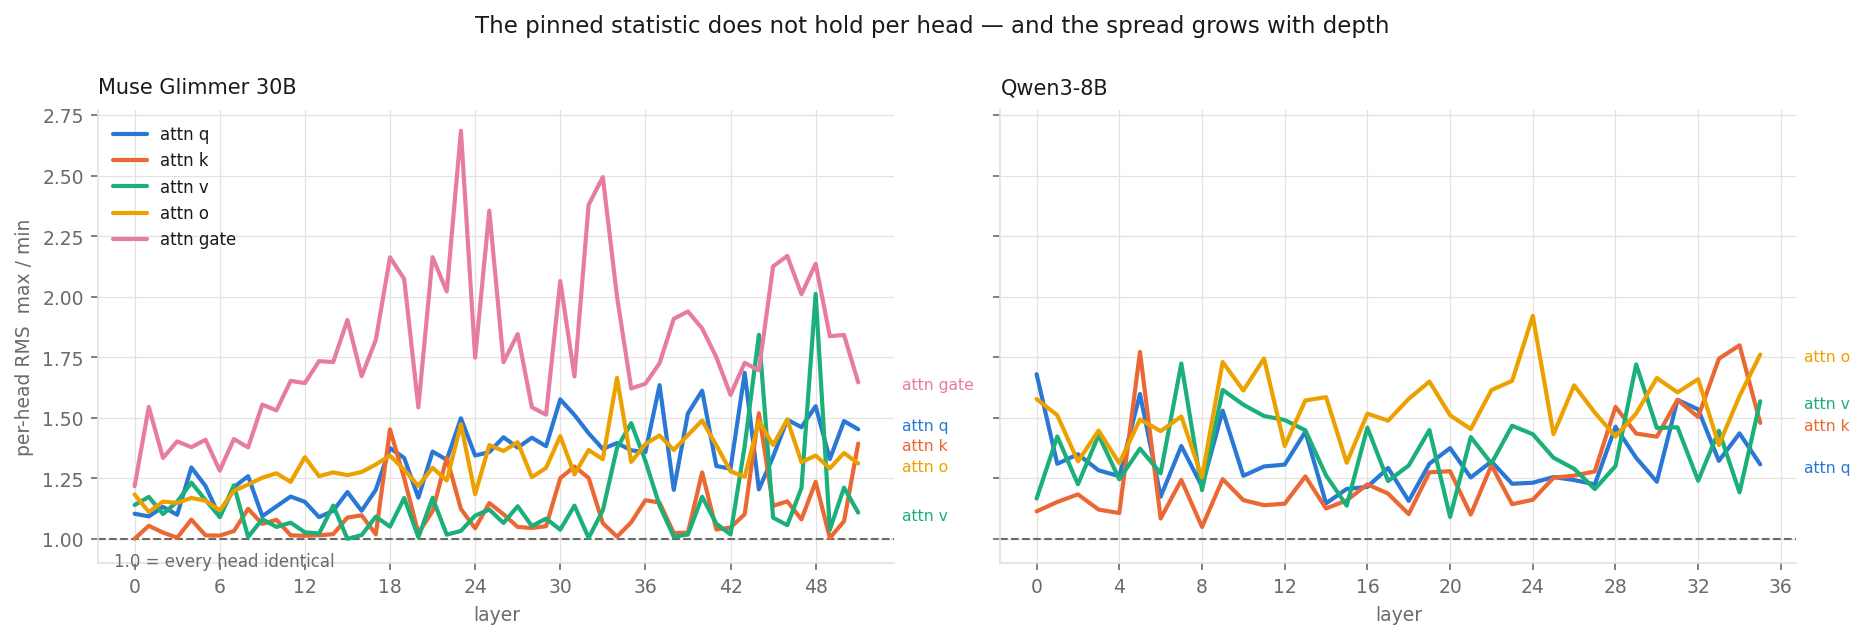
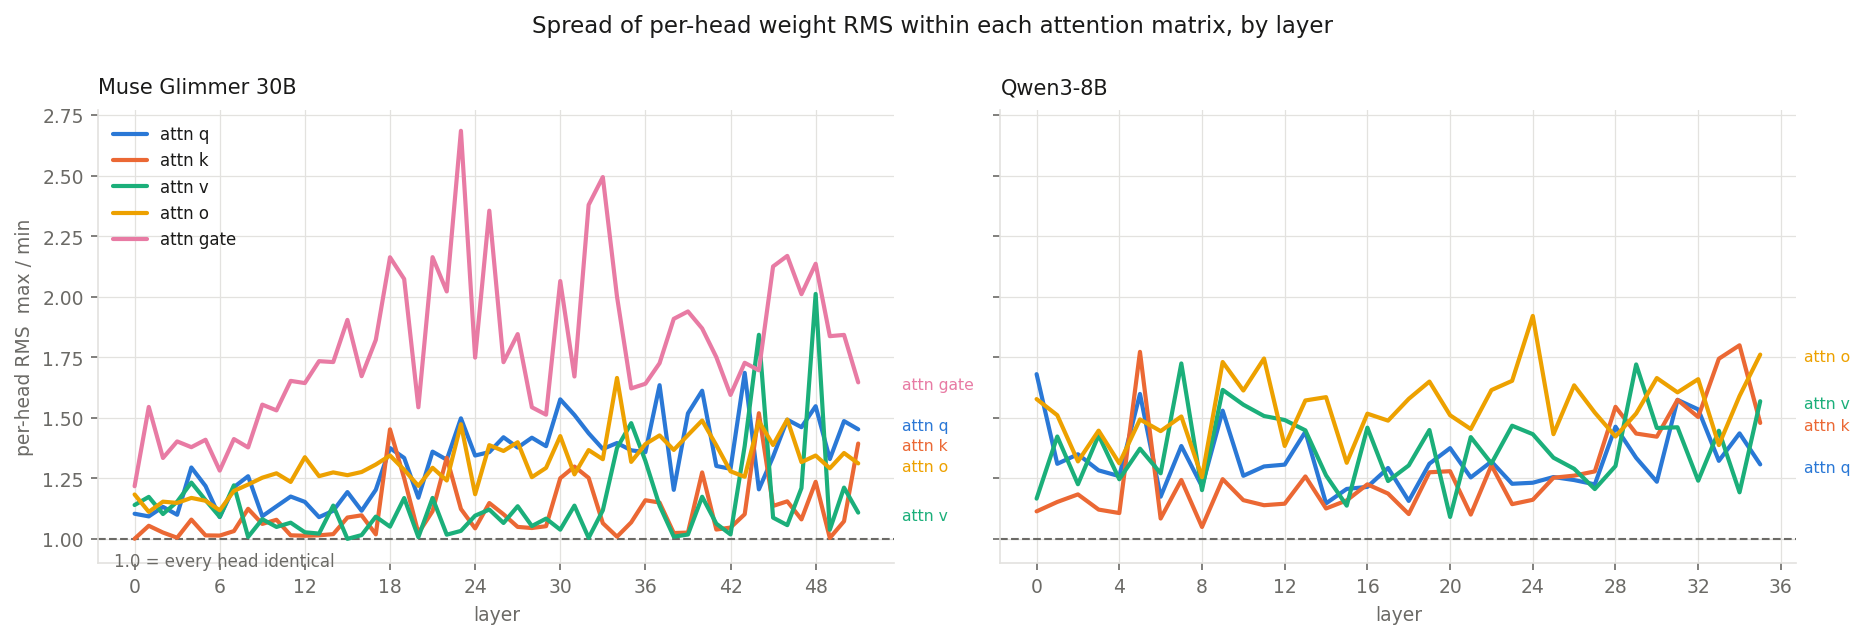
fig2: descriptive title instead of a claim
"Spread of per-head weight RMS within each attention matrix, by layer" -- the previous
title asserted the conclusion, and part of it ("the spread grows with depth") had
already been superseded by the full sweep, which shows a mid-model hump.

Changed region(s): [[0.2488, 0.0297, 0.7464, 0.0595]]

diff --git a/fused_attn_svd/plot_norms.py b/fused_attn_svd/plot_norms.py
@@ -200,8 +200,8 @@ def fig2(data: dict, out: Path) -> None:
                      xycoords=("axes fraction", "data"), xytext=(0, -13),
                      textcoords="offset points", fontsize=8, color=INK_MUTED)
     axes[0].legend(frameon=False, fontsize=8, loc="upper left")
-    fig.suptitle("The pinned statistic does not hold per head — and the spread grows "
-                 "with depth", x=0.5, y=1.0, fontsize=11)
+    fig.suptitle("Spread of per-head weight RMS within each attention matrix, by layer",
+                 x=0.5, y=1.0, fontsize=11)
     fig.tight_layout()
     fig.savefig(out / "fig2_per_head_spread.png", bbox_inches="tight")
     plt.close(fig)
